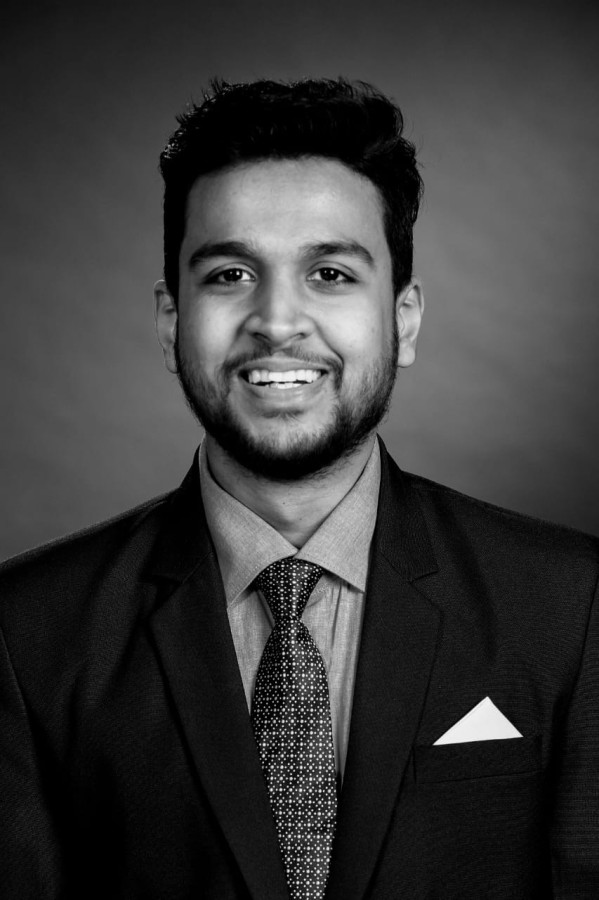
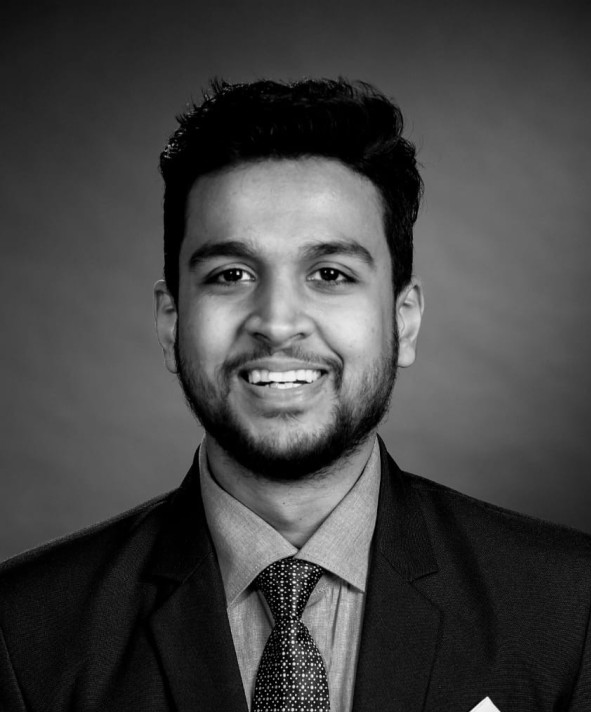
updated vo img

diff --git a/css/layout.css b/css/layout.css
@@ -198,17 +198,17 @@ ul#nav li.current a { color: #F06000; }
 
 #about h2 {
    font: 22px/30px 'opensans-bold', sans-serif;
-   color: #fff;
+   color: #11ABB0;
    margin-bottom: 12px;
 }
 #about p {
    line-height: 30px;
-   color: #7A7A7A;
+   color: #ffffff;
 }
 #about .profile-pic {
    position: relative;
-   width: 120px;
-   height: 120px;
+   width: 240px;
+   height: 240px;
    border-radius: 100%;
 }
 #about .contact-details { width: 41.66667%; }
@@ -258,6 +258,12 @@ ul#nav li.current a { color: #F06000; }
    font: 25px/30px 'opensans-bold', sans-serif;
 }
 
+#resume p {
+   line-height: 30px;
+   width: 120.33333%;
+   color: #3f3e3e;
+}
+
 #resume .header-col { padding-top: 9px; }
 #resume .main-col { padding-right: 10%; }
 
@@ -278,12 +284,126 @@ ul#nav li.current a { color: #F06000; }
 }
 #resume .date {
    font: 15px/24px 'opensans-regular', sans-serif;
+   color: #3c4146;
    margin-top: 6px;
 }
 
 /*----------------------------------------------*/
+/*	Work
+/*----------------------------------------------*/
+
+#work {
+   background: #fff;
+   padding-top: 90px;
+   padding-bottom: 72px;
+   overflow: hidden;
+}
+
+#work a, #work a:visited  { color: #11ABB0; }
+#work a:hover, #work a:focus { color: #313131; }
+
+#work h1 {
+   font: 18px/24px 'opensans-bold', sans-serif;
+   text-transform: uppercase;
+   letter-spacing: 1px;
+}
+#work h1 span {
+   border-bottom: 3px solid #11ABB0;
+   padding-bottom: 6px;
+}
+#work h3 {
+   font: 25px/30px 'opensans-bold', sans-serif;
+}
+
+#work p {
+   line-height: 30px;
+   width: 120.33333%;
+   color: #3f3e3e;
+}
+
+#work .header-col { padding-top: 9px; }
+#work .main-col { padding-right: 10%; }
+
+.education, .work {
+   margin-bottom: 48px;
+   padding-bottom: 24px;
+   border-bottom: 1px solid #E8E8E8;
+}
+#work .info {
+   font: 16px/24px 'librebaskerville-italic', serif;
+   color: #6E7881;
+   margin-bottom: 18px;
+   margin-top: 9px;
+}
+#work .info span {
+   margin-right: 5px;
+   margin-left: 5px;
+}
+#work .date {
+   font: 15px/24px 'opensans-regular', sans-serif;
+   color: #3c4146;
+   margin-top: 6px;
+}
+
+
+
+/*----------------------------------------------*/
 /*	Skill Bars
 /*----------------------------------------------*/
+
+/* ------------------------------------------------------------------ */
+/* d. skills Section
+/* ------------------------------------------------------------------ */
+
+#skills {
+   background: #fff;
+   padding-top: 90px;
+   padding-bottom: 72px;
+   overflow: hidden;
+}
+
+#skills a, #skills a:visited  { color: #11ABB0; }
+#skills a:hover, #skills a:focus { color: #313131; }
+
+#skills h1 {
+   font: 18px/24px 'opensans-bold', sans-serif;
+   text-transform: uppercase;
+   letter-spacing: 1px;
+}
+#skills h1 span {
+   border-bottom: 3px solid #11ABB0;
+   padding-bottom: 6px;
+}
+#skills h3 {
+   font: 25px/30px 'opensans-bold', sans-serif;
+}
+
+#skills .header-col { padding-top: 9px; }
+#skills .main-col { padding-right: 10%; }
+
+.education, .work {
+   margin-bottom: 48px;
+   padding-bottom: 24px;
+   border-bottom: 1px solid #E8E8E8;
+}
+#skills .info {
+   font: 16px/24px 'librebaskerville-italic', serif;
+   color: #6E7881;
+   margin-bottom: 18px;
+   margin-top: 9px;
+}
+#skills .info span {
+   margin-right: 5px;
+   margin-left: 5px;
+}
+#skills .date {
+   font: 15px/24px 'opensans-regular', sans-serif;
+   color: #3c4146;
+   margin-top: 6px;
+}
+
+
+
 
 .bars {
 	width: 95%;
@@ -331,9 +451,14 @@ ul#nav li.current a { color: #F06000; }
   	-webkit-animation: cpp 2s ease;
 }
 .pytorch {
-  	width: 75%;
+  	width: 90%;
   	-moz-animation: pytorch 2s ease;
   	-webkit-animation: pytorch 2s ease;
+}
+.pydata {
+   width: 85%;
+   -moz-animation: python 2s ease;
+   -webkit-animation: python 2s ease;
 }
 .ros {
   	width: 65%;
@@ -341,12 +466,12 @@ ul#nav li.current a { color: #F06000; }
   	-webkit-animation: ros 2s ease;
 }
 .python {
-  	width: 80%;
+  	width: 90%;
   	-moz-animation: python 2s ease;
   	-webkit-animation: python 2s ease;
 }
 .tensorflow {
-  	width: 50%;
+  	width: 75%;
   	-moz-animation: tensorflow 2s ease;
   	-webkit-animation: tensorflow 2s ease;
 }
@@ -355,15 +480,15 @@ ul#nav li.current a { color: #F06000; }
   	-moz-animation: jquery 2s ease;
   	-webkit-animation: pcl 2s ease;
 }
-.opencv {
-  	width: 80%;
-  	-moz-animation: pcl 2s ease;
-  	-webkit-animation: pcl 2s ease;
+.sagemaker {
+  	width: 40%;
+  	-moz-animation: python 2s ease;
+  	-webkit-animation: python 2s ease;
 }
 
 @-moz-keyframes cpp {
   0%   { width: 0px;  }
-  100% { width: 60%;  }
+  100% { width: 90%;  }
 }
 @-moz-keyframes pytorch {
   0%   { width: 0px;  }
@@ -392,7 +517,7 @@ ul#nav li.current a { color: #F06000; }
 
 @-webkit-keyframes cpp {
   0%   { width: 0px;  }
-  100% { width: 60%;  }
+  100% { width: 90%;  }
 }
 @-webkit-keyframes pytorch {
   0%   { width: 0px;  }
